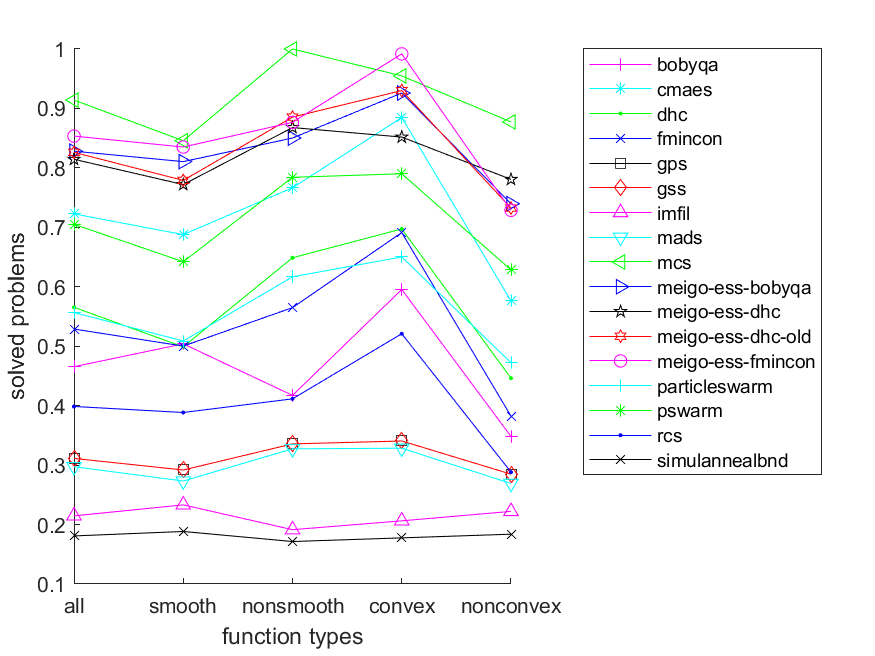
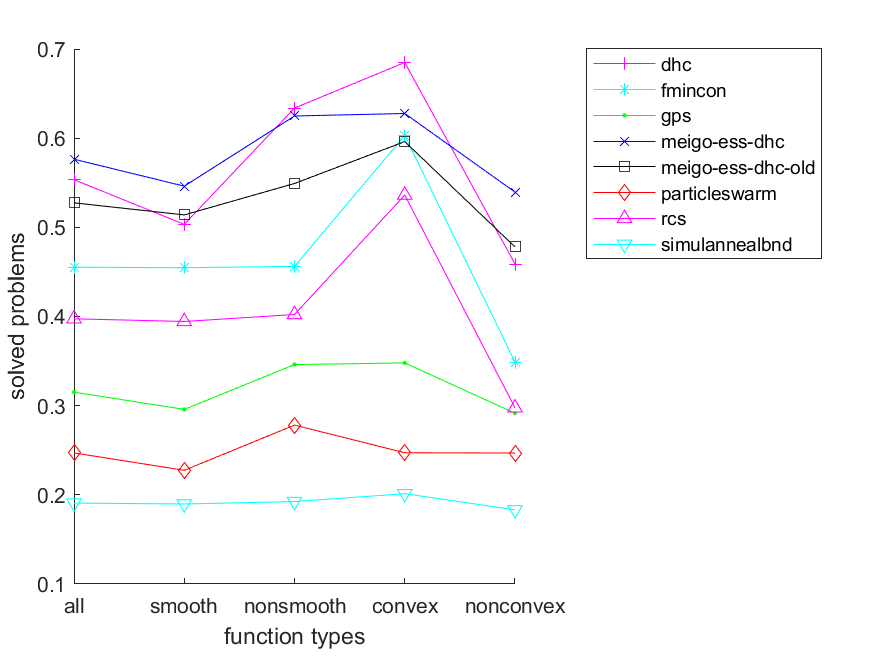
changes in result evaluation

diff --git a/tests_testfunction/evaluateTestResults.m b/tests_testfunction/evaluateTestResults.m
@@ -4,18 +4,15 @@ close all;
 solvers = {'bobyqa','cmaes','dhc','fmincon','gps','gss','mads','imfil','mcs','meigo-ess-bobyqa','meigo-ess-dhc-old','meigo-ess-dhc','meigo-ess-fmincon','particleswarm','pswarm','rcs','simulannealbnd'};
 cell_results_all = cell(0);
 for j=1:length(solvers)
-    load(['cell_results_test_' solvers{j}]);
-    cell_results_all = vertcat(cell_results_all,cell_results);
+    file = ['cell_results_test_' solvers{j} '_2000_20_.mat'];
+    if exist(file,'file')
+        load(file);
+        cell_results_all = vertcat(cell_results_all,cell_results);
+    end
 end
-load('cell_results_test_fmincon.mat');
-cell_results_fmincon = cell_results;
-load('cell_results_test_dhc.mat');
-cell_results_dhc = cell_results;
-load('cell_results_test_rcs.mat');
-cell_results_rcs = cell_results;
 
 % add information
-cell_results_all = EvaluationHelper.f_createResultExtendedList(cell_results_all);
+% cell_results_all = EvaluationHelper.f_createResultExtendedList(cell_results_all);
 
 % get best results
 cell_results_best = EvaluationHelper.f_extractBestResults(cell_results_all);
@@ -253,8 +250,7 @@ hold on;
 for j=1:nKeys
     plot(v_x,log10(v_y(j,:)),[markers{mod(j,nMarkers)+1} colors{mod(j,nColors)+1} '-'], 'DisplayName', cell_keys{j}); 
 end
-plot(1:C.nDims,log10(C.maxFunEvals_local)*ones(1,C.nDims),'-r','DisplayName','maxFunEvals-local');
-plot(1:C.nDims,log10(C.maxFunEvals_global)*ones(1,C.nDims),'-r','DisplayName','maxFunEvals-global');
+plot(1:C.nDims,log10(C.maxFunEvals{1})*ones(1,C.nDims),'-r','DisplayName','maxFunEvals');
 hold off;
 legend('show','Location','northeastoutside');
 xticks(1:C.nDims);

diff --git a/tests_testfunction/EvaluationHelper.m b/tests_testfunction/EvaluationHelper.m
@@ -28,14 +28,14 @@ classdef EvaluationHelper
                 grpName = grpRes.name;
                 grpDim = grpRes.dim;
                 grpAlg = grpRes.alg;
-                grpFval = grpRes.accurate_fval;
+                grpFval = grpRes.fval;
                 index = index + 1;
                 while (index <= n)
                     curRes = cell_results_all{index};
                     curName = curRes.name;
                     curDim = curRes.dim;
                     curAlg = curRes.alg;
-                    curFval = curRes.accurate_fval;
+                    curFval = curRes.fval;
                     if  isequal(grpName,curName) && isequal(grpDim,curDim) && isequal(grpAlg,curAlg) 
                         index = index + 1;
                         if (curFval < grpFval)
@@ -126,7 +126,7 @@ classdef EvaluationHelper
                
                % update
                map_total(res.alg) = map_total(res.alg) + 1;
-               map(res.alg) = map(res.alg) + res.accurate_funEvals;
+               map(res.alg) = map(res.alg) + res.funEvals;
             end
             
             % get share

diff --git a/tests_testfunction/runTests.m b/tests_testfunction/runTests.m
@@ -46,6 +46,9 @@ for jExercise = 1:nExercises
     
     fprintf(['xbst: ' num2str(result.fbst) '\t x: ' num2str(result.fval) '\t fevals: ' num2str(result.funEvals) '\n']);
     
+    if maxFunEvals > 20000
+        result.fval_trace = [];
+    end
     cell_results{jExercise} = result;
 end
 
